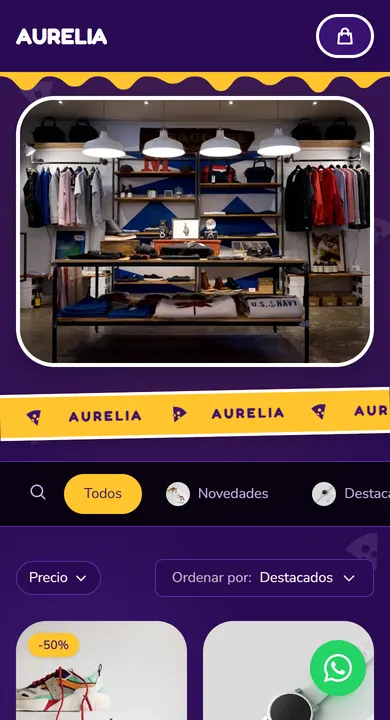
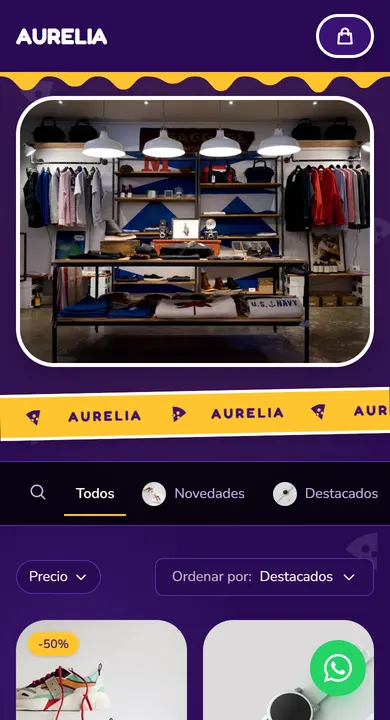
feat(catalogo): variante subrayada para categorias y fin del zoom de iOS
Dos mejoras que salieron de usar Panda Pizza en el celular.

1. CategoryCarousel gana la variante 'underline': la categoria activa aclara
   el texto y muestra una barrita de 2.5px del color primario debajo, en vez
   de la pastilla rellena. Para temas donde el relleno con el color primario
   grita demasiado — en Fiesta, la pastilla dorada contra el morado se comia
   la atencion de las fotos. Fiesta la adopta; el resto de los temas sigue en
   'pill' por defecto, sin cambios.

2. Los dos campos del storefront que quedaban con letra menor a 16px pasan a
   text-base en movil (cupon de descuento en OrderSummary y el textarea de
   pedido personalizado). iOS hace zoom automatico al enfocar cualquier campo
   con letra menor a 16px, y ese zoom no se revierte solo al salir del campo.
   En sm+ vuelven a text-sm: en desktop el zoom no existe y el tamano chico
   esta bien ahi. Los demas campos del checkout ya heredaban 16px y el
   buscador ya estaba en text-base.

Verificado en el navegador: la activa lleva subrayado dorado y ningun boton
tiene fondo relleno; la sonda con las clases del cupon mide 16px a 375px de
ancho y 14px a 1280px. Miniatura de fiesta regenerada.

diff --git a/src/components/catalog/CategoryCarousel.tsx b/src/components/catalog/CategoryCarousel.tsx
@@ -34,7 +34,7 @@ import SearchModal from './SearchModal'
  * default which is the closest thing to the legacy look.
  */
 
-type Variant = 'pill' | 'circle' | 'square' | 'tile'
+type Variant = 'pill' | 'circle' | 'square' | 'tile' | 'underline'
 
 interface CategoryCarouselProps {
   categories: Category[]
@@ -164,7 +164,7 @@ export default function CategoryCarousel({
   const isIconVariant = variant === 'circle' || variant === 'square'
   // Tighter vertical rhythm for pill (text-only feel), more breathing room
   // for variants where each item has an image + label stack.
-  const verticalPadding = variant === 'pill' ? 'py-3' : variant === 'tile' ? 'py-3' : 'py-4'
+  const verticalPadding = variant === 'pill' || variant === 'underline' ? 'py-3' : variant === 'tile' ? 'py-3' : 'py-4'
 
   return (
     <>
@@ -312,6 +312,35 @@ function CategoryItem({ variant, isActive, isAll, name, image, onClick, theme }:
   // Optimized image URL only generated when we'll actually render it.
   const optimized = image ? optimizeImage(image, 'category') : ''
   const srcSet = image ? getImageSrcSet(image, 'category') : ''
+
+  // Subrayado sutil en lugar de pastilla rellena: para temas donde el relleno
+  // con el color primario grita demasiado. La categoria activa solo aclara el
+  // texto y muestra una barrita del color primario debajo.
+  if (variant === 'underline') {
+    return (
+      <button
+        onClick={onClick}
+        className="flex-shrink-0 flex items-center gap-2 px-3 py-2 text-sm transition-all duration-200"
+        style={{
+          color: isActive ? theme.colors.text : theme.colors.textMuted,
+          fontWeight: isActive ? 600 : 400,
+          borderBottom: `2.5px solid ${isActive ? theme.colors.primary : 'transparent'}`,
+          marginBottom: '-2.5px',
+        }}
+      >
+        {image && !isAll && (
+          <img
+            src={optimized}
+            srcSet={srcSet}
+            alt=""
+            className="w-6 h-6 rounded-full object-cover -ml-1"
+            loading="lazy"
+          />
+        )}
+        <span>{name}</span>
+      </button>
+    )
+  }
 
   if (variant === 'pill') {
     return (

diff --git a/src/themes/fiesta/FiestaTheme.tsx b/src/themes/fiesta/FiestaTheme.tsx
@@ -442,12 +442,16 @@ export default function FiestaTheme({ store, products, categories, onWhatsAppCli
         <TrustBar />
         <FlashSaleBar />
 
+        {/* Subrayado en vez de pastilla: la pastilla dorada rellena gritaba
+            demasiado contra el morado. La activa lleva texto claro y una
+            barrita dorada debajo. */}
         <CategoryCarousel
           categories={categories}
           activeCategory={activeFilters.categoryId}
           onCategoryChange={(id) => setFilter('categoryId', id)}
           products={products}
           onSelectProduct={handleSelectProduct}
+          variant="underline"
         />
 
         <main className="py-8 md:py-10 relative">

diff --git a/src/components/catalog/checkout/OrderSummary.tsx b/src/components/catalog/checkout/OrderSummary.tsx
@@ -225,7 +225,7 @@ export default function OrderSummary({ items, totalPrice, shippingCost = 0, disc
                       value={couponCode}
                       onChange={(e) => setCouponCode(e.target.value.toUpperCase())}
                       placeholder={t.couponCode}
-                      className="flex-1 px-3 py-2 text-sm border outline-none"
+                      className="flex-1 px-3 py-2 text-base sm:text-sm border outline-none"
                       style={{
                         borderColor: couponError ? '#ef4444' : theme.colors.border,
                         borderRadius: theme.radius.sm,

diff --git a/src/components/catalog/business-type/CustomOrderInput.tsx b/src/components/catalog/business-type/CustomOrderInput.tsx
@@ -66,7 +66,7 @@ export default function CustomOrderInput({
         onChange={(e) => onChange(e.target.value)}
         placeholder={t.placeholder}
         rows={3}
-        className="w-full px-4 py-3 text-sm resize-none transition-all focus:outline-none"
+        className="w-full px-4 py-3 text-base sm:text-sm resize-none transition-all focus:outline-none"
         style={{
           backgroundColor: theme.effects.darkMode
             ? 'rgba(255,255,255,0.05)'
